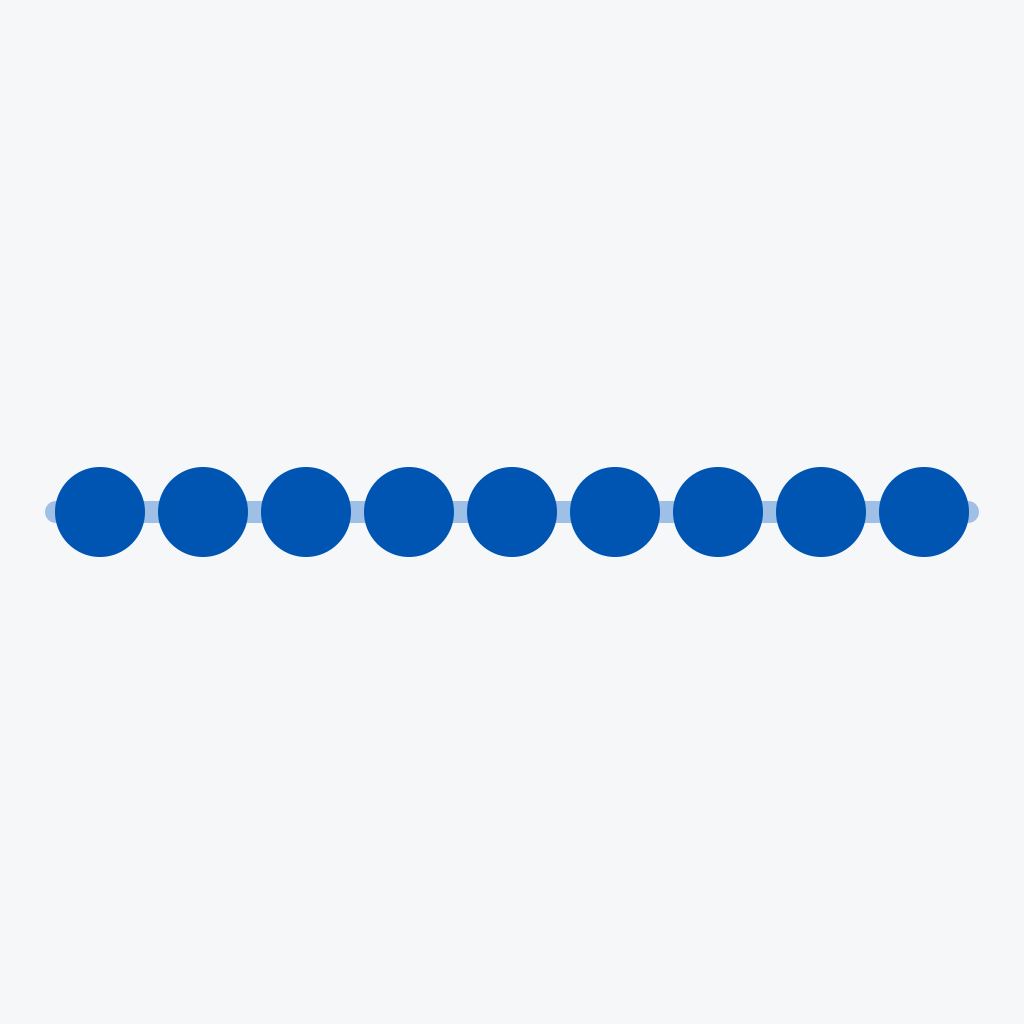
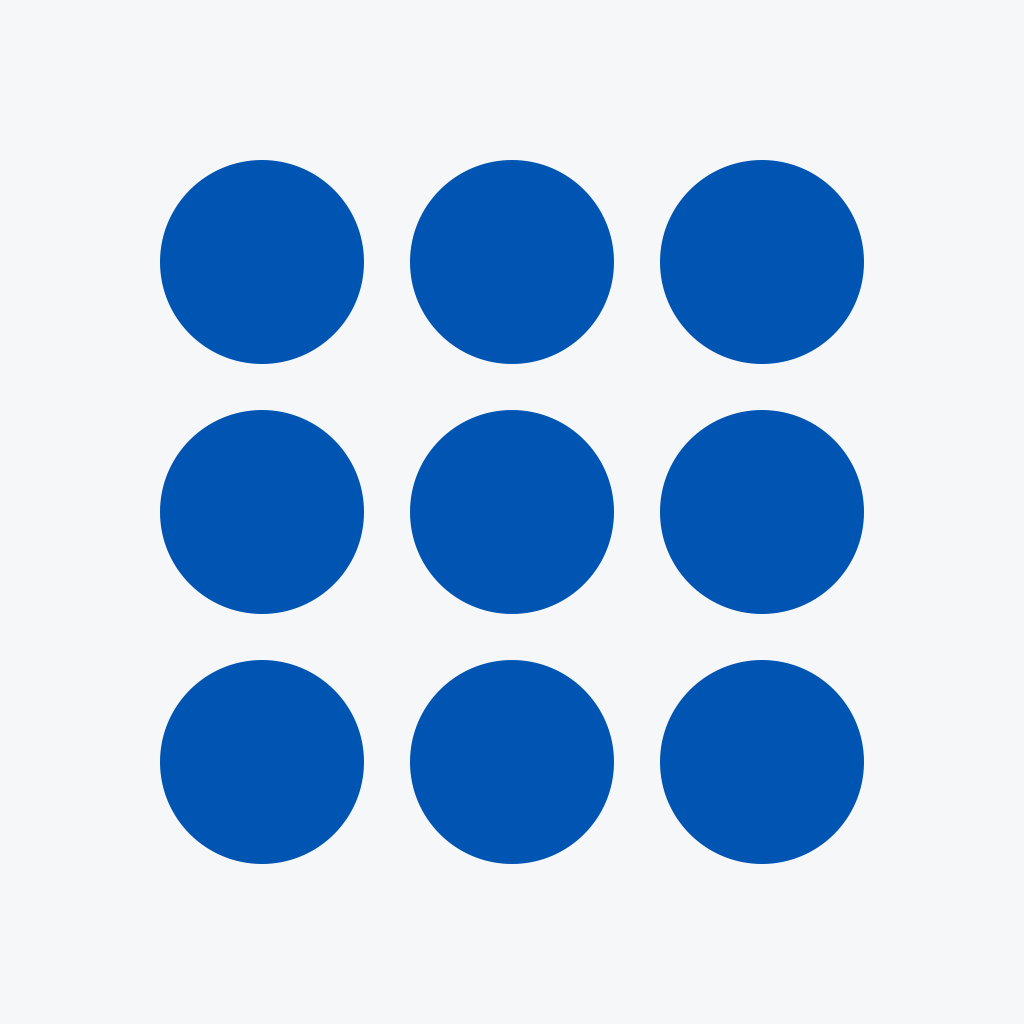
Achievement pictures: the nine rings as three rows of three
In a row of nine across the circle a ring could be no wider than about 100 px, and at 60 px on and
off could hardly be told apart. Three rows of three, ring 1 at the top left, make each ring 204 px,
as heavy as The Shortest Way's two. No bar behind them.

Changed region(s): [[0.1562, 0.1562, 0.8438, 0.8438], [0.8438, 0.4375, 0.9688, 0.5625], [0.0312, 0.4375, 0.1562, 0.5625]]

diff --git a/StoreTools/Sources/StoreComposer/AchievementPictures.swift b/StoreTools/Sources/StoreComposer/AchievementPictures.swift
@@ -6,9 +6,11 @@ import UniformTypeIdentifiers
 /// The pictures of the app's four Game Center achievements, drawn here as a few flat shapes, so that they can be made
 /// again: `swift run --package-path StoreTools achievement-pictures`.
 ///
-/// They speak the ring buttons' language: a ring that is on is a filled disc, a ring that is off is an outline, ring 1
-/// on the left and ring 9 on the right, in the blue of a ring that is on. The sword is a bar in a lighter blue behind the
-/// row. Game Center cuts each picture to a circle as wide as it is, so everything stays well inside one.
+/// They speak the ring buttons' language: a ring that is on is a filled disc and a ring that is off is an outline, in
+/// the blue of a ring that is on. The nine rings stand in three rows of three, ring 1 at the top left and ring 9 at the
+/// bottom right, so that each is large enough to read when the picture is small; The Shortest Way is one straight arrow
+/// from a filled ring to an outline. Game Center cuts each picture to a circle as wide as it is, so everything stays
+/// well inside one.
 ///
 /// App Store Connect asks for a `.png` or `.jpeg` of 1024 × 1024 pixels, at least 72 ppi, RGB. These are sRGB PNGs with
 /// no alpha channel, marked 72 ppi.
@@ -22,11 +24,10 @@ public enum AchievementPictures {
     }
 
     public static let size = 1024
-    /// The background, the blue of a ring that is on, and the sword's lighter blue.
+    /// The background, and the blue of a ring that is on.
     static let background = CGColor(srgbRed: 0.965, green: 0.969, blue: 0.976, alpha: 1)
     /// The ring buttons' disc for a ring that is on: the system blue, #007AFF, darkened by 30% (see `RingButtons.onFill`).
     static let ring = CGColor(srgbRed: 0, green: 0.335, blue: 0.7, alpha: 1)
-    static let sword = CGColor(srgbRed: 0.62, green: 0.75, blue: 0.9, alpha: 1)
     /// How far from the middle anything is drawn: the circle Game Center keeps has a radius of 512.
     public static let contentRadius = 470.0
 
@@ -35,9 +36,9 @@ public enum AchievementPictures {
         context.setFillColor(background)
         context.fill(CGRect(x: 0, y: 0, width: size, height: size))
         switch picture {
-        case .allNineOff: drawRow(on: [], in: context)
-        case .allNineBackOn: drawRow(on: Set(1...9), in: context)
-        case .farEnd: drawRow(on: [9], in: context)
+        case .allNineOff: drawGrid(on: [], in: context)
+        case .allNineBackOn: drawGrid(on: Set(1...9), in: context)
+        case .farEnd: drawGrid(on: [9], in: context)
         case .shortestWay: drawStraightThere(in: context)
         }
         guard let image = context.makeImage() else { throw ComposerError.unwritable(URL(filePath: "/")) }
@@ -59,22 +60,23 @@ public enum AchievementPictures {
 
     private static let middle = Double(size) / 2
 
-    /// Nine rings on the sword, ring 1 on the left; those in `on` are filled.
-    private static func drawRow(on: Set<Int>, in context: CGContext) {
-        let diameter = 90.0
-        let gap = 13.0
-        let width = 9 * diameter + 8 * gap
+    /// The nine rings as three rows of three, ring 1 at the top left and ring 9 at the bottom right, in reading order;
+    /// those in `on` are filled. In a row of nine across the circle a ring could be no wider than about 100 pixels;
+    /// three rows let each be twice that, as heavy as the two rings of The Shortest Way, so that on and off still read
+    /// when the picture is small.
+    private static func drawGrid(on: Set<Int>, in context: CGContext) {
+        let diameter = 204.0
+        let gap = 46.0
+        let width = 3 * diameter + 2 * gap
         let left = middle - width / 2
-        // The sword: a bar through the rings' middles, a little longer than the row, its ends rounded.
-        let swordHeight = 22.0
-        let overhang = 10.0
-        let swordRect = CGRect(x: left - overhang, y: middle - swordHeight / 2, width: width + 2 * overhang, height: swordHeight)
-        context.setFillColor(sword)
-        context.addPath(CGPath(roundedRect: swordRect, cornerWidth: swordHeight / 2, cornerHeight: swordHeight / 2, transform: nil))
-        context.fillPath()
+        let top = middle + width / 2
         for ring in 1...9 {
-            let x = left + Double(ring - 1) * (diameter + gap)
-            drawRing(in: CGRect(x: x, y: middle - diameter / 2, width: diameter, height: diameter), isOn: on.contains(ring), context: context)
+            let column = Double((ring - 1) % 3)
+            let row = Double((ring - 1) / 3)
+            let x = left + column * (diameter + gap)
+            // The context's y grows upwards: row 0 is at the top.
+            let y = top - diameter - row * (diameter + gap)
+            drawRing(in: CGRect(x: x, y: y, width: diameter, height: diameter), isOn: on.contains(ring), context: context)
         }
     }
 
@@ -110,9 +112,6 @@ public enum AchievementPictures {
             context.fillEllipse(in: rect)
         } else {
             let line = rect.width * 0.22
-            // A ring that is off is off the sword: its hole shows the background, not the bar.
-            context.setFillColor(background)
-            context.fillEllipse(in: rect)
             context.setStrokeColor(ring)
             context.setLineWidth(line)
             context.strokeEllipse(in: rect.insetBy(dx: line / 2, dy: line / 2))

diff --git a/docs/game-center.md b/docs/game-center.md
@@ -85,8 +85,9 @@ Xcode's editor, not by hand.
 4. **The pictures** are ready in `StoreTools/AchievementPictures/`, one for each achievement, named by its
    identifier: `all_nine_off.png`, `shortest_way.png`, `all_nine_back_on.png` and `far_end.png`. Upload each as its
    achievement's **Image**. They are what App Store Connect asks for: 1024 × 1024 pixels, PNG, RGB, 72 ppi, with no
-   transparency. They use the ring buttons' language: a filled disc is a ring that is on, an outline a ring that is off,
-   ring 1 on the left, on a bar for the sword; The Shortest Way is one straight arrow from a filled ring to an outline.
+   transparency. They use the ring buttons' language: a filled disc is a ring that is on, an outline a ring that is off.
+   The nine rings stand in three rows of three, ring 1 at the top left and ring 9 at the bottom right, so that they
+   read even when small; The Shortest Way is one straight arrow from a filled ring to an outline.
    Everything stays well inside the circle Game Center cuts them to. They are drawn by
    `swift run --package-path StoreTools achievement-pictures` (the drawing is
    `StoreTools/Sources/StoreComposer/AchievementPictures.swift`), so a change is made there and they are made again.
